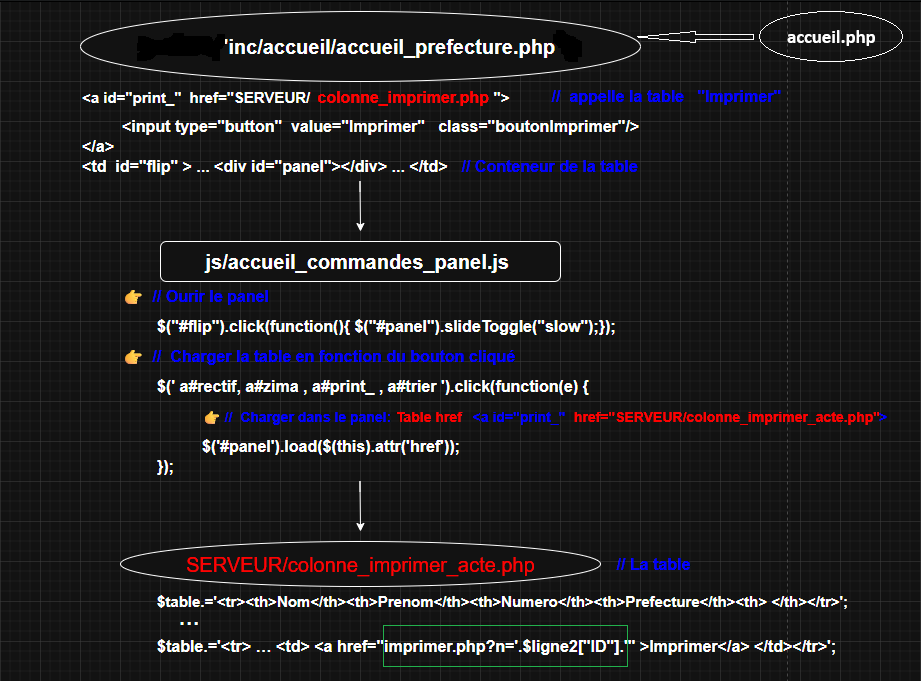
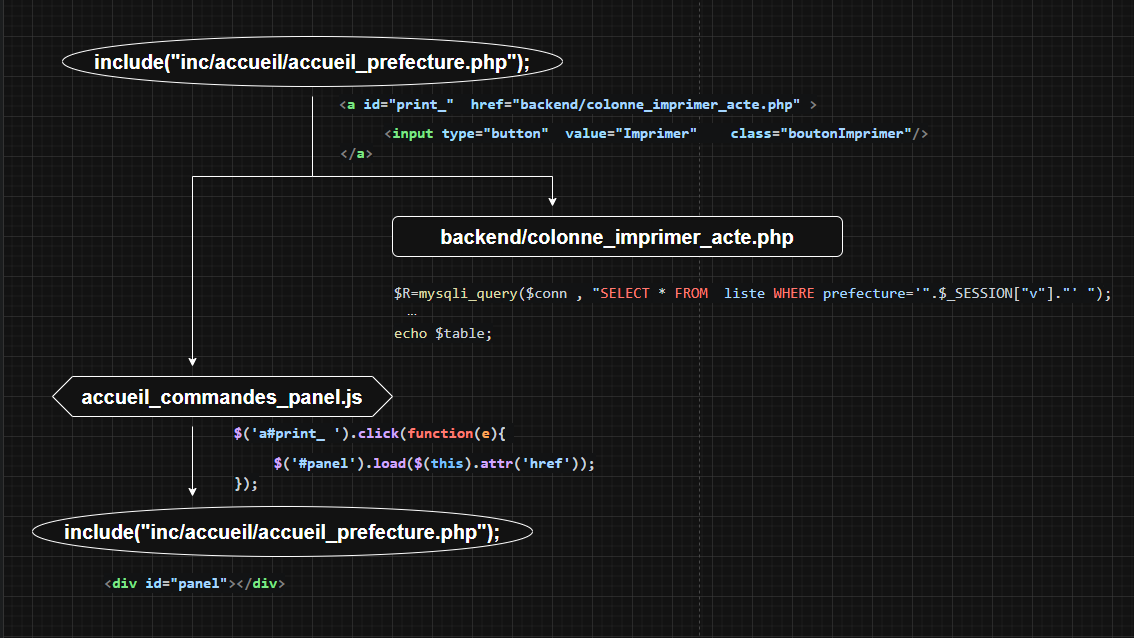
jQuery: Remodelisation chargement table Imprimer

diff --git a/index.html b/index.html
@@ -288,7 +288,7 @@
       La page d'accueil fonctionne en mode <b>SPA</b>: <b>S</b>ingle <b>P</b>age <b>A</b>pplication ( mais c'est une version à la main - sans framwork)<br>
       Vue.js (ou React) le ferait beaucoup mieux !
   </p>  
-  <p><b><u>2.1 Chargement de la table </u>: "backend/colonne_afficher_naissance.php"</b></p>
+  <p><b><u>2.1 Ajax: Chargement "table_afficher_naissance.html.twig</u>"</b></p>
 
   <img src="uml/accueil/Lien_Afficher/affichelien.png" class="img interface">
   <div class="img firstPart" style="color:gray;">
@@ -353,28 +353,28 @@
    <ul type="cite" style="clear:both;">
        <li>Aucune variable session utilisée en guise de filte. </li>
        <li>Juste l'<b>id</b>, transmis par URL.</li>
+       <li>Par contre la prefecture selectionnée est mise en session, pour les tables relatives aux 4 btns du panel de commandes</li>
    </ul> 
   </div>
-  <img src="uml/accueil/Lien_Afficher/showDoc.png" class="img lastPart" style="height:auto; ">
-  
+  <img src="uml/accueil/Lien_Afficher/showDoc.png" class="img middlePart">
+  <div class="img lastPart"> 
+     ouvrePop(){...} se trouve sur dialogueBox.js
+  </div>  
 
    
-  <p ><b><u>2.3 Chargement de la table "Imprimer</u></b>"</p>
+  <p id="imprimer" ><b><u>2.3 jQuery: Chargement de la table "Imprimer</u></b>"</p>
   <img src="uml/accueil/Bouton_Imprimer/accueilimprimer.png" class="img interface">  
   <div class="img firstPart" style="color:#ececea;">
-	  <u><i>L'affichage de la table</i></u> et <u><i>l'appel au fichier de traitement</i></u> sont assurés par un script jQuery( js/<b>accueil_commandes_panel.js</b> ).
-	 <br>C'est une solution jQuery qui fait du AJAX :
-	 
-	  <ul type="cite" style="margin-top:.3em;">
-		   <li>Intercepter un clic, empêcher la navigation, charger du contenu dans un panel de la page d'accueil.</li>
-		   <li>Elle ouvre le panel</li>
-		   <li>Elle charge une table dans ce panel</li>
-	   </ul>
+      Le clic sur le btn Imprimer déclenche 2 actions:<br>
+	  &emsp; ✅ Redirection vers la table "Imprimer"<br>
+	  &emsp; ✅ Chargement(jQuery) de cette table dans div#panel
    </div>
   <img src="uml/accueil/Bouton_Imprimer/accueilBtnImprimer.png" class="img lastPart"> 
 
-  <!-- Remarque -->
-  <img src="uml/accueil/Bouton_Imprimer/reparationimprimer.png" class="img">
+  <div class="img firstPart" style="color:#ececea;">
+      Version Ajax: Obsolète
+  </div>
+  <img src="uml/accueil/Bouton_Imprimer/reparationimprimer.png" class="img lastPart">
  
  <p id="modifier"><b><u>2.4 Chargement de la table "Rectifier</u></b>"</p>
  <img src="uml/accueil/Bouton_Rectifier/accueilrectifier.png" class="img interface"> 

diff --git a/symfony.html b/symfony.html
@@ -350,23 +350,16 @@
   <img src="uml/accueil/Lien_Afficher/showDoc_sf.png" class="img lastPart">
 
    
-  <p ><b><u>2.3 Chargement de la table "Imprimer</u></b>"</p>
+  <p id="imprimer"><b><u>2.3 jQuery: Chargement de la table "Imprimer</u></b>"</p>
   <img src="uml/accueil/Bouton_Imprimer/accueilimprimer.png" class="img interface2">  
   <p style="margin-bottom:0;">
-  <div class="img firstPart" style="color:#ececea;">
-	  <u><i>L'affichage de la table</i></u> et <u><i>l'appel au fichier de traitement</i></u> sont assurés par un script jQuery( js/<b>accueil_commandes_panel.js</b> ).
-	 <br>C'est une solution jQuery qui fait du AJAX :
-	 
-	  <ul type="cite" style="margin-top:.3em;">
-		   <li>Intercepter un clic, empêcher la navigation, charger du contenu dans un panel de la page d'accueil.</li>
-		   <li>Elle ouvre le panel</li>
-		   <li>Elle charge une table dans ce panel</li>
-	   </ul>
-   </div>
+    <div class="img firstPart" style="color:#ececea;">
+      Le clic sur le btn Imprimer déclenche 2 actions:<br>
+	  &emsp; ✅ Redirection vers la table "Imprimer"<br>
+	  &emsp; ✅ Chargement(jQuery) de cette table dans div#panel
+  </div>
   <img src="uml/accueil/Bouton_Imprimer/accueilBtnImprimer.png" class="img lastPart"> 
 
-  <!-- Remarque -->
-  <img src="uml/accueil/Bouton_Imprimer/reparationimprimer.png" class="img" style="height:auto; ">
  
  <p id="modifier"><b><u>2.4 Chargement de la table "Rectifier</u></b>"</p>
  <img src="uml/accueil/Bouton_Rectifier/accueilrectifier.png" class="img interface2"> 
